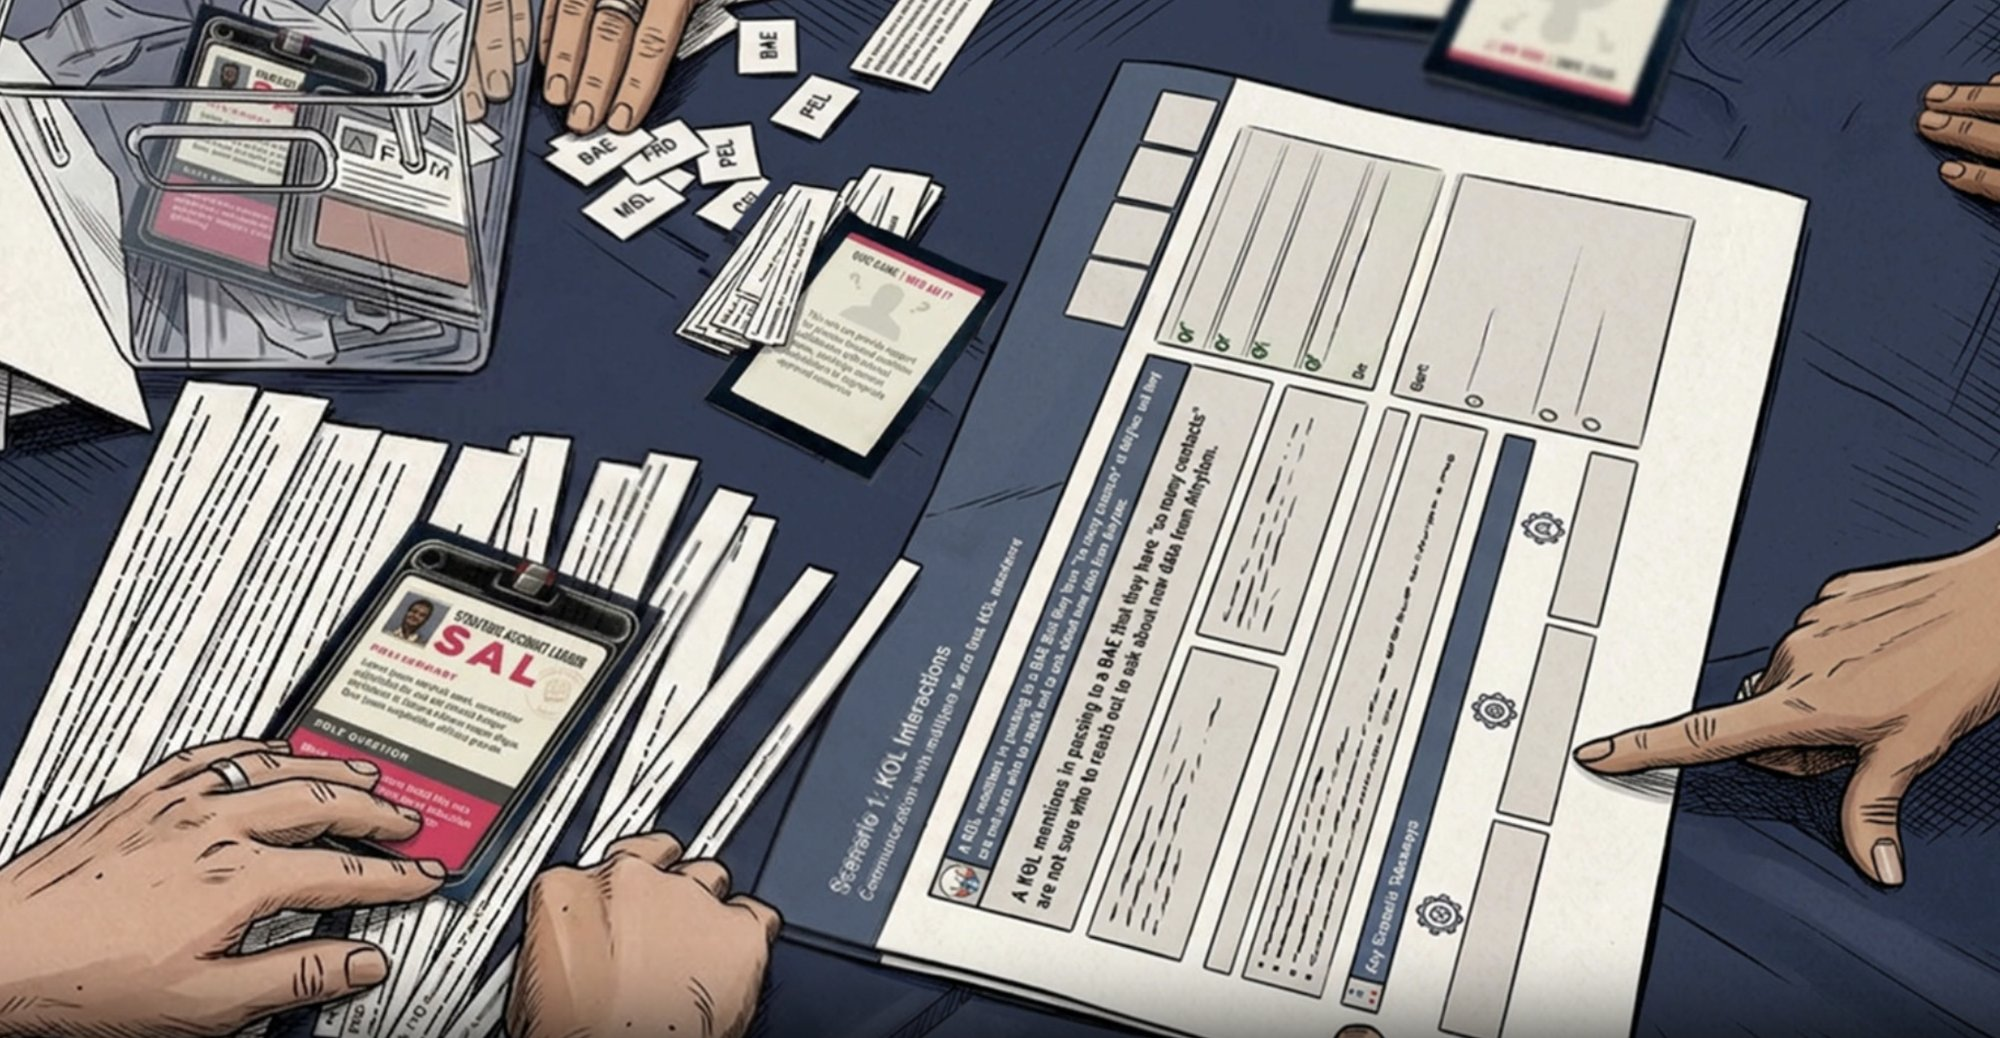
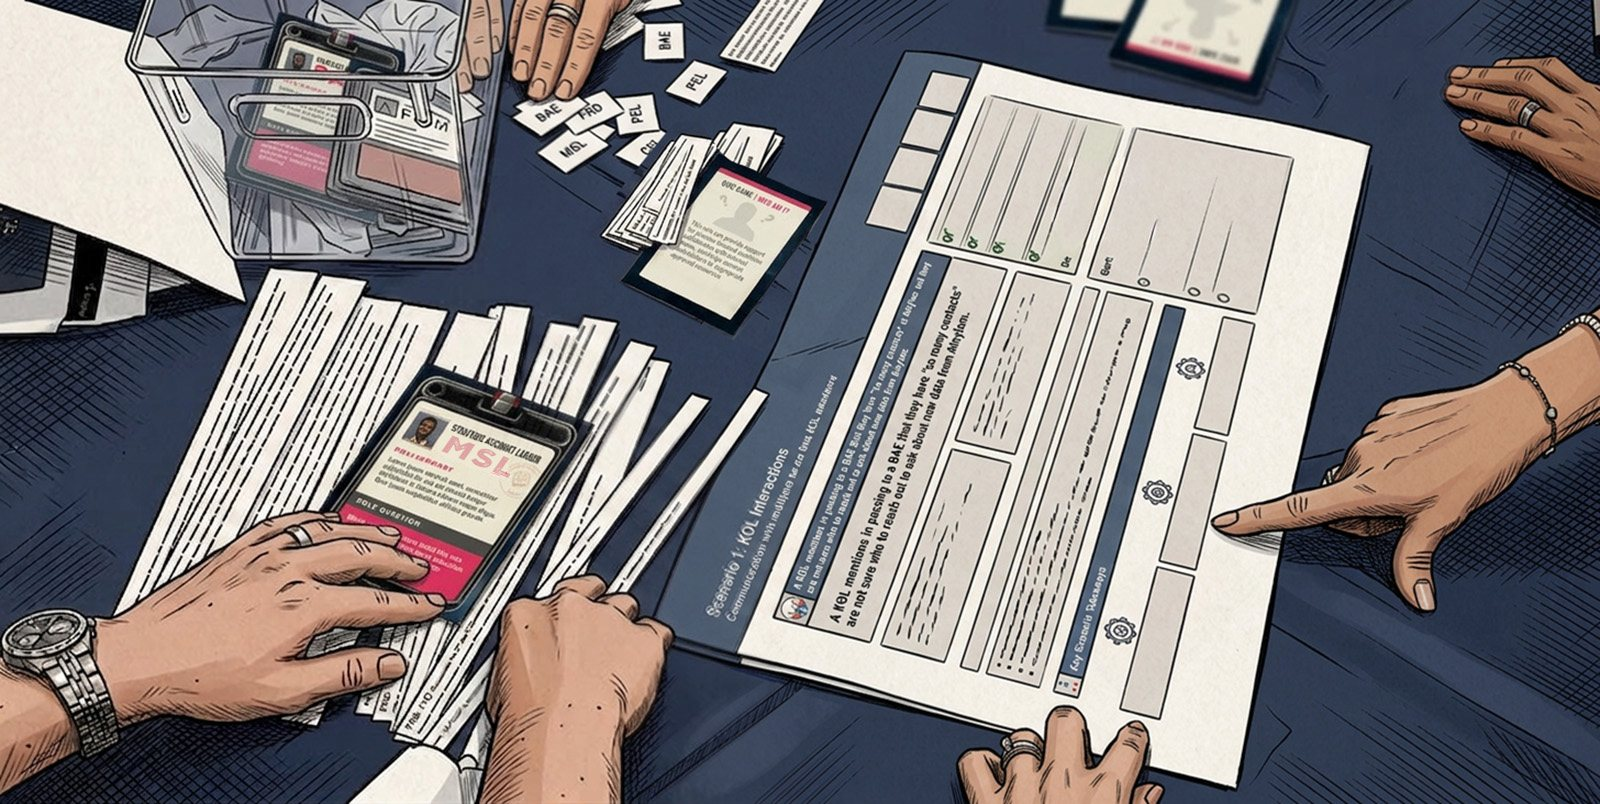
New image for the Workmat in play tile
Claude-Session: https://claude.ai/code/session_018UBqbQGtj4JCJvXUh26TBn

diff --git a/index.html b/index.html
@@ -208,7 +208,7 @@
       <figure class="mtile m-board"><img src="images/live-leaderboard.jpg" alt="Live leaderboard on a big screen showing team standings" width="2000" height="1121"><button class="mtile-info" type="button" aria-label="About: Live leaderboard" aria-haspopup="dialog"><svg viewBox="0 0 10 10" aria-hidden="true"><circle cx="5" cy="1.6" r="1.05" fill="currentColor"/><path d="M5 4.2v4.6" stroke="currentColor" stroke-width="1.7" stroke-linecap="round"/></svg></button><figcaption>Live leaderboard</figcaption><p class="mtile-desc" hidden>Big-screen standings that update round by round. Scores come from the rubric, so every team can see how its decisions are landing.</p></figure>
       <figure class="mtile m-cards"><img src="images/game-cards.jpg" alt="Custom game cards: stakeholder role badges and a Who Am I? quiz card" width="2000" height="1108"><button class="mtile-info" type="button" aria-label="About: Game cards" aria-haspopup="dialog"><svg viewBox="0 0 10 10" aria-hidden="true"><circle cx="5" cy="1.6" r="1.05" fill="currentColor"/><path d="M5 4.2v4.6" stroke="currentColor" stroke-width="1.7" stroke-linecap="round"/></svg></button><figcaption>Game cards</figcaption><p class="mtile-desc" hidden>Role cards and quiz cards written for the brand and the account. Teams use them to identify stakeholders, ask sharper questions and unlock intel.</p></figure>
       <figure class="mtile m-barrier"><img src="images/instructions-video-still.jpg" alt="Still from an instructions video: a presenter on stage explains how the lab is played" width="2000" height="1159"><button class="mtile-info" type="button" aria-label="About: Instructions video" aria-haspopup="dialog"><svg viewBox="0 0 10 10" aria-hidden="true"><circle cx="5" cy="1.6" r="1.05" fill="currentColor"/><path d="M5 4.2v4.6" stroke="currentColor" stroke-width="1.7" stroke-linecap="round"/></svg></button><figcaption>Instructions video</figcaption><p class="mtile-desc" hidden>A presenter-led video that explains how the lab works, so every room starts with the same rules no matter who is facilitating.</p></figure>
-      <figure class="mtile m-table"><img src="images/workmat-in-play.jpg" alt="A workmat in play, covered with cards and team notes" width="2000" height="1038"><button class="mtile-info" type="button" aria-label="About: Workmat in play" aria-haspopup="dialog"><svg viewBox="0 0 10 10" aria-hidden="true"><circle cx="5" cy="1.6" r="1.05" fill="currentColor"/><path d="M5 4.2v4.6" stroke="currentColor" stroke-width="1.7" stroke-linecap="round"/></svg></button><figcaption>Workmat in play</figcaption><p class="mtile-desc" hidden>Mid-round, the mat fills up with cards, notes and decisions. Facilitators can read each team's thinking at a glance and coach in the moment.</p></figure>
+      <figure class="mtile m-table"><img src="images/workmat-in-play.jpg" alt="A workmat in play, covered with cards and team notes" width="1600" height="804"><button class="mtile-info" type="button" aria-label="About: Workmat in play" aria-haspopup="dialog"><svg viewBox="0 0 10 10" aria-hidden="true"><circle cx="5" cy="1.6" r="1.05" fill="currentColor"/><path d="M5 4.2v4.6" stroke="currentColor" stroke-width="1.7" stroke-linecap="round"/></svg></button><figcaption>Workmat in play</figcaption><p class="mtile-desc" hidden>Mid-round, the mat fills up with cards, notes and decisions. Facilitators can read each team's thinking at a glance and coach in the moment.</p></figure>
     </div>
   </section>
 
